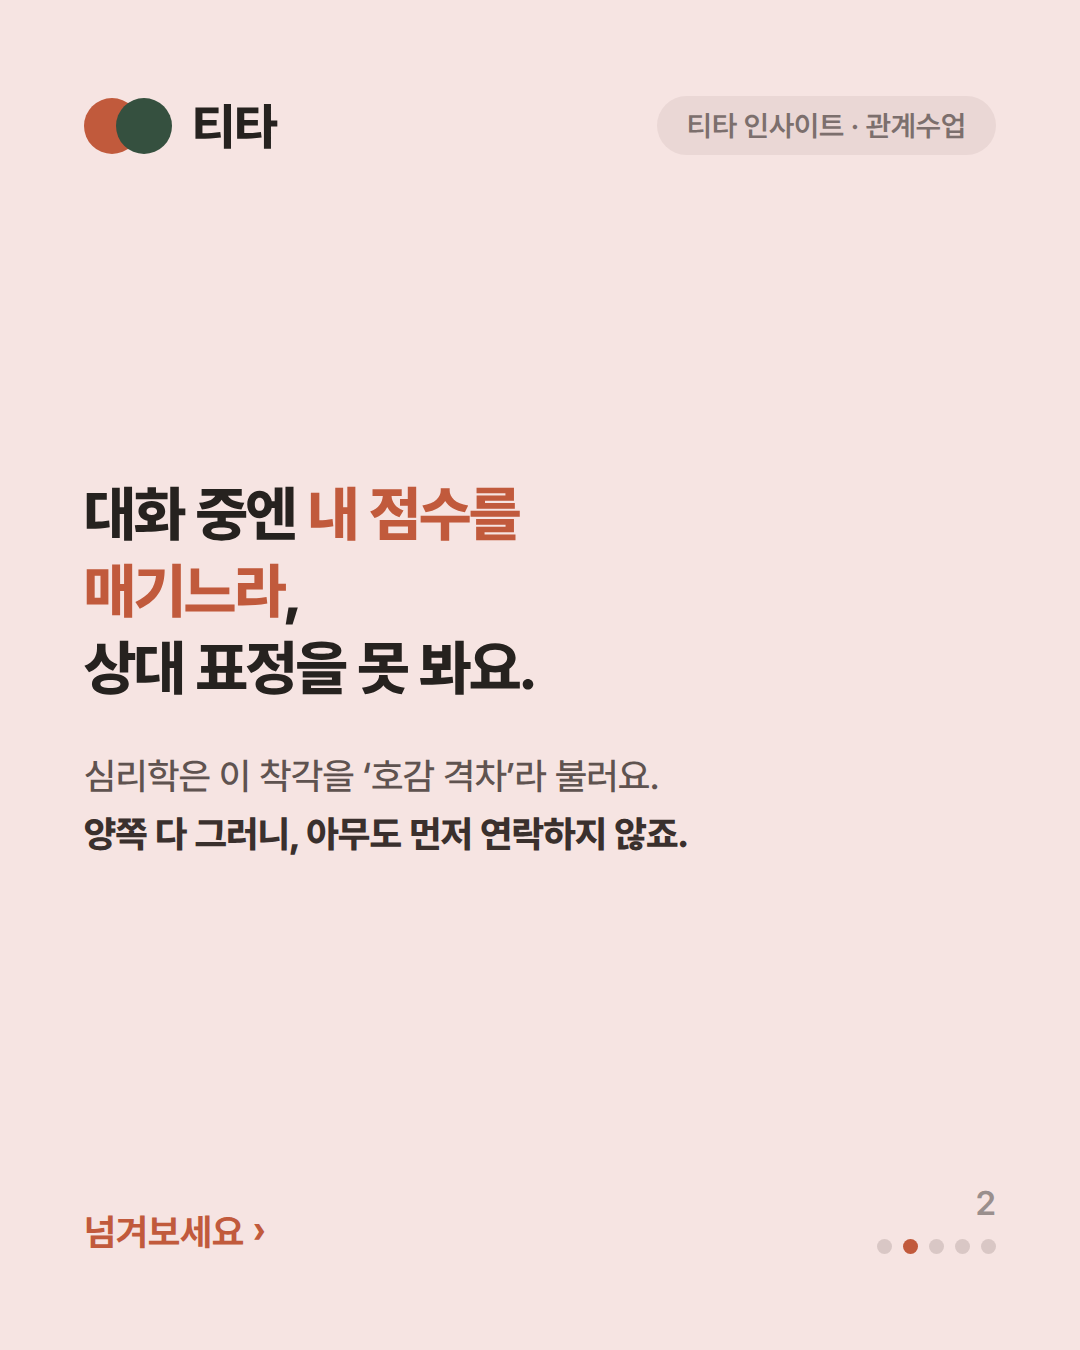
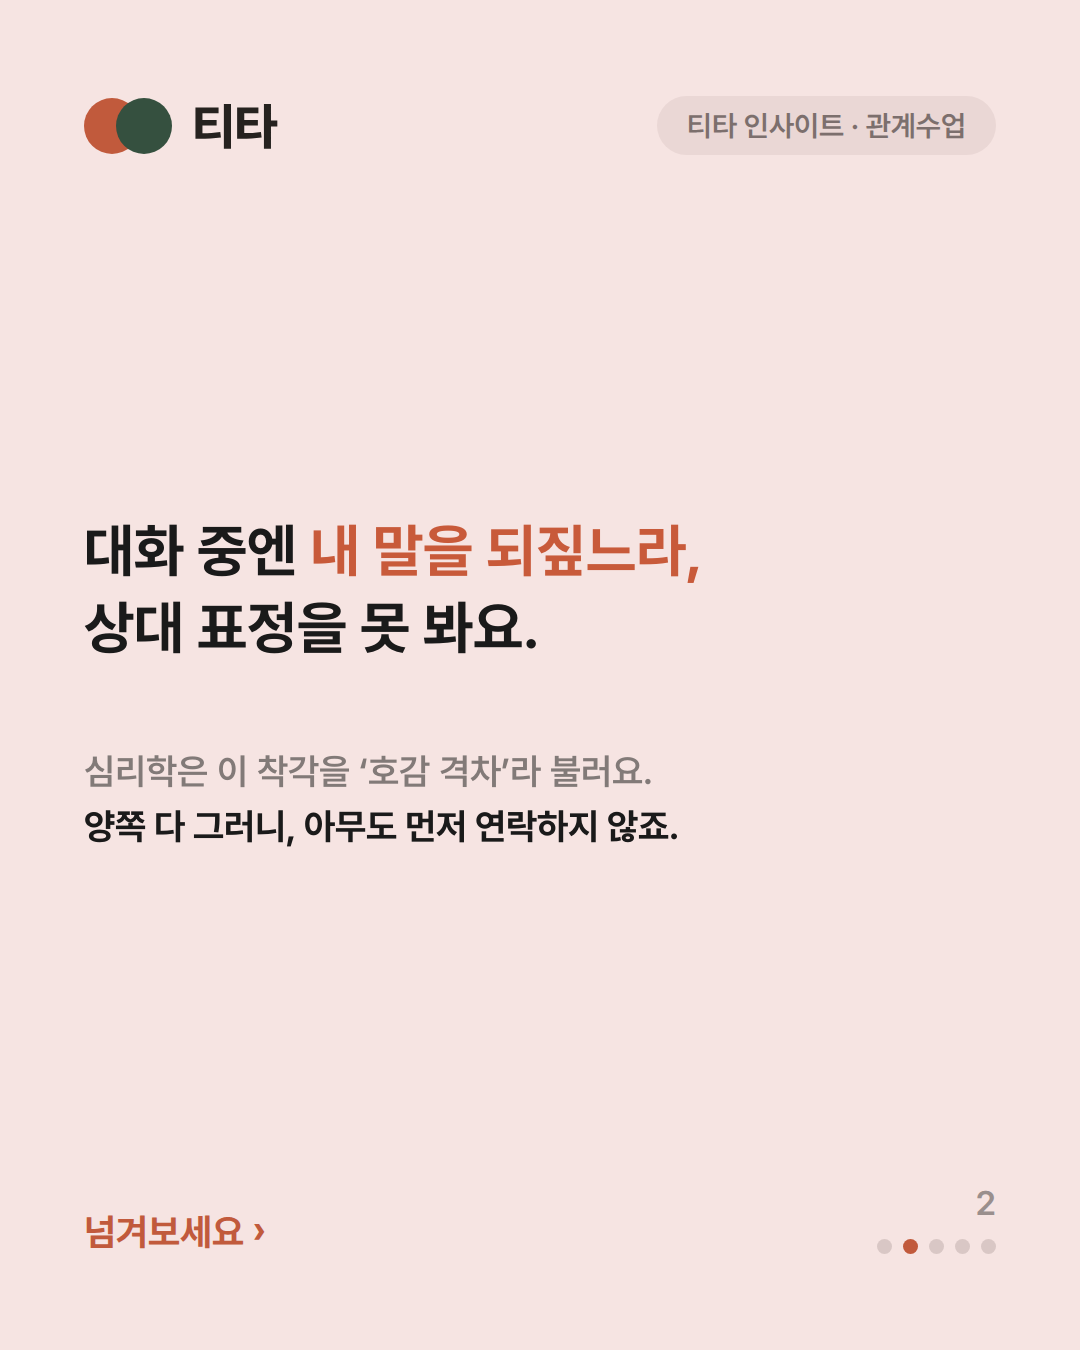
fix(blog): 호감격차 카드·본문 문구 손질 + 보이스피싱 5번째 카드
호감격차 글 — 세 군데를 고쳤다.

'점수를 매기느라' → '되짚느라'. 채점은 기계적인 말이고, 실제로 벌어지는
일은 방금 한 내 말을 되돌려 보는 것이다.

'한 번에 안 이어지는 건 실패가 아니다' → '마음을 나눌 수 있는 친구가
되는 데는 원래 시간이 걸립니다'. 실패를 부정하려면 실패라는 말을 먼저
꺼내야 한다. 부정문을 없애고 홀 교수의 결과를 그대로 말한다. 어떤 친구를
말하는지도 밝힌다. 본문의 '실패가 아니라 정상적인 경과'도 같이 고쳤다.

후속 질문 예시는 원래 셋을 그대로 둔다. 후보를 더 뽑아봤지만 '저도 해볼
수 있을까요?'는 초점을 나에게 되돌리고 '그래서 어떻게 됐어요?'는 캐묻는
쪽이다. 원래 셋은 다 상대가 자기 이야기를 하게 만든다.

카드 2·3은 통째로 다시 그리지 않고 글자 띠만 교체했다(retext_insight_09).
전체를 재현해보니 로고·칩에서 3%가량 픽셀이 어긋나, 한 연작에서 두 장만
바꾸는 데는 이 방식이 맞다. 기하는 원본에서 픽셀로 재서 맞췄다.

보이스피싱 — 5번째 카드를 넣었다. 각본이 반드시 쓰는 "누구에게도 말하지
마라"가 신호라는 카드다. 옆에 물어볼 사람이 한 명만 있어도 각본이 깨진다는
말이 티타가 여럿이 모이는 자리를 기본으로 두는 이유와 바로 이어진다.
마무리 카드는 5번으로 밀고, 본문에도 해당 문단 아래 새 카드를 넣었다.

Changed region(s): [[0.0611, 0.3422, 0.6417, 0.5289], [0.0611, 0.56, 0.6417, 0.6533]]

diff --git a/src/app/blog/posts.ts b/src/app/blog/posts.ts
@@ -504,7 +504,7 @@ export const POSTS: BlogPost[] = [
       },
       {
         type: "image",
-        src: "/blog/voice-phishing/card-4.png",
+        src: "/blog/voice-phishing/card-5.png",
         alt: "어떤 기관도 전화로 돈을 옮기라 하지 않는다 — 그 말이 나오면 끊고 112에 직접 걸라는 티타 안전 수칙 카드",
         caption: "그 말이 나오면, 끊으세요",
       },
@@ -515,6 +515,12 @@ export const POSTS: BlogPost[] = [
       {
         type: "p",
         text: "그리고 하나 더. 혼자 판단하지 않는 게 가장 확실한 방어다. 그들이 반드시 하는 말이 **“누구에게도 말하지 마라”**인 이유가 그것이다. 옆에 물어볼 사람이 한 명만 있어도 이 각본은 대부분 깨진다.",
+      },
+      {
+        type: "image",
+        src: "/blog/voice-phishing/card-4.png",
+        alt: "누구에게도 말하지 마세요라는 말이 나오면 그것이 신호 — 옆에 물어볼 사람이 한 명만 있어도 각본은 깨진다는 티타 안전 수칙 카드",
+        caption: "이 말이 나오면, 오히려 누군가에게 말하세요",
       },
       {
         type: "quote",
@@ -1761,22 +1767,22 @@ export const POSTS: BlogPost[] = [
       {
         type: "image",
         src: "/blog/insight-09/card-2.png",
-        alt: "대화 중엔 내 점수를 매기느라 상대 표정을 못 본다 — 양쪽 다 그러니 아무도 먼저 연락하지 않는다는 티타 인사이트 카드",
+        alt: "대화 중엔 내 말을 되짚느라 상대 표정을 못 본다 — 양쪽 다 그러니 아무도 먼저 연락하지 않는다는 티타 인사이트 카드",
         caption: "양쪽 다 그래서, 아무도 먼저 연락하지 않는다",
       },
       {
         type: "p",
-        text: "이유는 단순합니다. 대화하는 동안 우리 머릿속은 **자기 자신을 채점하느라** 바쁩니다. ‘지금 이 말이 이상했나’, ‘다음엔 무슨 얘기를 하지’. 그 사이 상대가 보내는 호감의 신호 — 웃음, 맞장구, 몸을 기울이는 자세 — 는 그냥 지나갑니다.",
+        text: "이유는 단순합니다. 대화하는 동안 우리 머릿속은 **방금 한 내 말을 되짚느라** 바쁩니다. ‘지금 이 말이 이상했나’, ‘다음엔 무슨 얘기를 하지’. 그 사이 상대가 보내는 호감의 신호 — 웃음, 맞장구, 몸을 기울이는 자세 — 는 그냥 지나갑니다.",
       },
       {
         type: "callout",
         text: "문제는 양쪽 모두 그렇다는 점입니다. 서로 즐거웠는데, 서로 ‘상대는 별로였을 것’이라 믿고, 아무도 먼저 연락하지 않습니다.",
       },
-      { type: "h2", text: "한 번에 안 이어지는 건 실패가 아니다" },
+      { type: "h2", text: "마음을 나눌 수 있는 친구가 되는 데는 원래 시간이 걸립니다" },
       {
         type: "image",
         src: "/blog/insight-09/card-3.png",
-        alt: "한 번에 안 이어지는 건 실패가 아니다 — 친구가 되기까지 50~200시간이 걸리고 어색한 게 아니라 오랜만인 것이라는 티타 인사이트 카드",
+        alt: "마음을 나눌 수 있는 친구가 되는 데는 원래 시간이 걸린다 — 50시간에 가벼운 친구, 200시간에 가까운 친구가 되고 어색한 게 아니라 오랜만인 것이라는 티타 인사이트 카드",
         caption: "어색한 게 아니라, 오랜만인 것",
       },
       {
@@ -1785,7 +1791,7 @@ export const POSTS: BlogPost[] = [
       },
       {
         type: "p",
-        text: "그러니 한 번 만나고 대화가 이어지지 않은 것은 실패가 아니라 **정상적인 경과**입니다. 여기에 한 가지가 더 있습니다. 사회적 접촉의 수는 **25세 무렵을 정점으로 계속 줄어듭니다**(로빈 던바). 직장과 육아로 소수에게 시간을 몰아주는 사이, 새로 사귀는 일 자체가 삶에서 사라집니다. 40대, 50대에 새 사람을 만나 어색한 것은 당연합니다. **능력이 없어진 게 아니라, 오랫동안 쓰지 않았을 뿐입니다.**",
+        text: "그러니 한 번 만나고 대화가 이어지지 않았다면, 그건 **원래 그만큼 걸리는 일**입니다. 여기에 한 가지가 더 있습니다. 사회적 접촉의 수는 **25세 무렵을 정점으로 계속 줄어듭니다**(로빈 던바). 직장과 육아로 소수에게 시간을 몰아주는 사이, 새로 사귀는 일 자체가 삶에서 사라집니다. 40대, 50대에 새 사람을 만나 어색한 것은 당연합니다. **능력이 없어진 게 아니라, 오랫동안 쓰지 않았을 뿐입니다.**",
       },
       { type: "h2", text: "대화를 잇는 건 ‘한 번 더 묻는 것’" },
       {

diff --git a/scripts/retext_insight_09.py b/scripts/retext_insight_09.py
@@ -1,0 +1,103 @@
+#!/usr/bin/env python3
+"""insight-09 카드 2·3번의 글자만 교체한다.
+
+카드를 처음부터 다시 그리지 않는다. 로고·칩·쪽번호·진행점·출처 줄은 원본
+픽셀을 그대로 두고, 글자가 놓인 띠만 배경색으로 지운 뒤 새로 얹는다.
+전체를 다시 그려보니 로고·칩에서 3%가량 픽셀이 어긋났다 — 한 연작에서
+두 장만 바꾸는 일에는 이 방식이 맞다.
+
+기하는 원본 card-2·card-3에서 픽셀로 재서 맞춘 값이다.
+  좌여백 84 · 제목 58(줄간격 77) · 보조 36(줄간격 55) · 배경 (246,228,226)
+제목·보조 모두 한 줄 안에서 색과 굵기를 섞을 수 있다.
+
+⚠ 원본을 덮어쓰므로 두 번 돌리면 안 된다. 다시 돌릴 일이 있으면
+   git에서 원본을 되살린 뒤 실행한다:
+     git checkout HEAD -- public/blog/insight-09/card-2.png card-3.png
+"""
+from PIL import Image, ImageDraw, ImageFont
+
+D = ("/Users/hangyeolryu/Documents/projects/bloomagain-website"
+     "/public/blog/insight-09")
+FD = ("/Users/hangyeolryu/Documents/projects/bloomagain-website"
+      "/src/app/fonts")
+BOLD, SEMI = f"{FD}/Pretendard-Bold.otf", f"{FD}/Pretendard-SemiBold.otf"
+
+BG = (246, 228, 226)
+INK, TERRA, GREY = (26, 26, 26), (200, 90, 58), (130, 122, 120)
+MARGIN = 84
+MAXW = 1080 - MARGIN * 2
+T_SIZE, T_STEP = 58, 77
+S_SIZE, S_STEP = 36, 55
+BAND = (390, 910)  # 글자를 지울 세로 구간 — 칩(≤160)과 출처(≥1150)는 건드리지 않는다
+
+
+def draw_line(d, x, y, segs, size):
+    """(글자, 색, 굵기) 조각들을 왼쪽부터 이어 그린다."""
+    for text, color, bold in segs:
+        f = ImageFont.truetype(BOLD if bold else SEMI, size)
+        d.text((x, y), text, font=f, fill=color)
+        bb = d.textbbox((0, 0), text, font=f)
+        x += bb[2] - bb[0]
+
+
+def line_width(d, segs, size):
+    w = 0
+    for text, _, bold in segs:
+        f = ImageFont.truetype(BOLD if bold else SEMI, size)
+        bb = d.textbbox((0, 0), text, font=f)
+        w += bb[2] - bb[0]
+    return w
+
+
+def retext(path, title, sub, title_top, sub_top):
+    """title_top·sub_top은 글자 윗선(원본에서 잰 값)."""
+    im = Image.open(path).convert("RGB")
+    d = ImageDraw.Draw(im)
+    d.rectangle([0, BAND[0], im.width, BAND[1]], fill=BG)
+
+    for name, block, size, step, top in (
+            ("제목", title, T_SIZE, T_STEP, title_top),
+            ("보조", sub, S_SIZE, S_STEP, sub_top)):
+        for segs in block:
+            w = line_width(d, segs, size)
+            if w > MAXW:
+                raise ValueError(f"{name} 줄이 넘칩니다({w}>{MAXW}): "
+                                 f"{''.join(t for t, _, _ in segs)}")
+        # d.text의 y는 글자 윗선보다 위에 있다. 첫 줄의 top bearing만큼 올린다.
+        f0 = ImageFont.truetype(BOLD if block[0][0][2] else SEMI, size)
+        pad = d.textbbox((0, 0), block[0][0][0], font=f0)[1]
+        y = top - pad
+        for segs in block:
+            draw_line(d, MARGIN, y, segs, size)
+            y += step
+
+    im.save(path, "PNG")
+    print("saved", path)
+
+
+# ── card-2 · '점수를 매기느라' → '내 말을 되짚느라' ──────────────────────────
+# 채점이라는 말이 기계적이었다. 실제로 벌어지는 일은 방금 한 내 말을
+# 되돌려 보는 것이라 '되짚느라'가 정확하다. 한 줄이 줄어 위치를 다시 잡았다.
+retext(
+    f"{D}/card-2.png",
+    [[("대화 중엔 ", INK, True), ("내 말을 되짚느라,", TERRA, True)],
+     [("상대 표정을 못 봐요.", INK, True)]],
+    [[("심리학은 이 착각을 ‘호감 격차’라 불러요.", GREY, False)],
+     [("양쪽 다 그러니, 아무도 먼저 연락하지 않죠.", INK, True)]],
+    title_top=524, sub_top=755,
+)
+
+# ── card-3 · '실패가 아니에요' → '원래 시간이 걸려요' ────────────────────────
+# 실패를 부정하려면 실패라는 말을 먼저 꺼내야 한다. 부정문을 없애고 홀 교수의
+# 결과를 그대로 말한다. '마음을 나눌 수 있는'을 붙여 어떤 친구인지 밝힌다.
+retext(
+    f"{D}/card-3.png",
+    [[("마음을 나눌 수 있는", INK, True)],
+     [("친구가 되는 데는", INK, True)],
+     [("원래 시간이 걸려요", TERRA, True), (".", INK, True)]],
+    [[("50시간에 가벼운 친구, ", GREY, False),
+      ("200시간에 가까운 친구", INK, True), (".", GREY, False)],
+     [("게다가 새로 사귀어본 게 수십 년 만이잖아요.", GREY, False)],
+     [("어색한 게 아니라, ", GREY, False), ("오랜만인 거예요.", INK, True)]],
+    title_top=420, sub_top=729,
+)

diff --git a/scripts/render_safety_card.py b/scripts/render_safety_card.py
@@ -1,0 +1,103 @@
+#!/usr/bin/env python3
+"""티타 안전 수칙 카드 렌더러 (다크 계열).
+
+색·좌표는 실제 발행된 카드(public/blog/voice-phishing/card-1.png)에서 픽셀로
+뽑아 맞춘 값이다. 같은 연작에 나란히 놓아도 한 줄도 어긋나지 않는다.
+
+  배경 세로 그라데이션 (45,42,52) → (24,23,31)
+  카멜 (219,187,142) · 크림 (240,235,227) · 뮤트 (172,163,151)
+  좌여백 86 · 라벨 412 · 제목 498(+95) · 서브 836(+64) · 하단 1232
+
+pill의 숫자는 **글 번호**다(카드 순서가 아니다). 보이스피싱 = 05.
+
+사용:
+    <venv>/bin/python scripts/render_safety_card.py
+"""
+from PIL import Image, ImageDraw, ImageFont
+
+W, H = 1080, 1350
+FD = "/Users/hangyeolryu/Documents/projects/bloomagain-website/src/app/fonts"
+BOLD, SEMI = f"{FD}/Pretendard-Bold.otf", f"{FD}/Pretendard-SemiBold.otf"
+
+TOP, BOT = (45, 42, 52), (24, 23, 31)
+CAMEL, CREAM, MUTED = (219, 187, 142), (240, 235, 227), (172, 163, 151)
+TERRA = (193, 90, 60)
+X = 86
+MAXW = W - X * 2  # 이 폭을 넘는 줄은 렌더 전에 잡는다
+
+
+def f(p, s):
+    return ImageFont.truetype(p, s)
+
+
+def card(num, label, lines, sub, out,
+         cta="넘겨서 보기  →", foot="만 45세 이상 · 친구 매칭"):
+    """lines: [(텍스트, 색)] 리스트. 색은 CAMEL 또는 CREAM."""
+    im = Image.new("RGB", (W, H))
+    d = ImageDraw.Draw(im)
+    for y in range(H):
+        t = y / (H - 1)
+        d.line([(0, y), (W, y)],
+               fill=tuple(round(TOP[i] + (BOT[i] - TOP[i]) * t)
+                          for i in range(3)))
+
+    # 헤더 로고 + 티타
+    d.ellipse([X, 96, X + 60, 156], fill=TERRA)
+    d.ellipse([X + 36, 96, X + 96, 156], fill=CREAM)
+    d.text((X + 110, 100), "티타", font=f(BOLD, 50), fill=CREAM)
+
+    # 우상단 필 — 하트 + '티타 안전 수칙 · NN'
+    pf = f(BOLD, 30)
+    txt = f"♥ 티타 안전 수칙 · {num:02d}"
+    tw = d.textlength(txt, font=pf)
+    d.rounded_rectangle([W - 86 - tw - 52, 104, W - 86, 158], radius=27,
+                        fill=(58, 50, 45))
+    d.text((W - 86 - tw - 26, 114), txt, font=pf, fill=CAMEL)
+
+    # 라벨
+    d.text((X, 412), label, font=f(SEMI, 34), fill=MUTED)
+
+    # 제목 (최대 3줄)
+    tf = f(BOLD, 72)
+    y = 498
+    for text, col in lines:
+        w = d.textlength(text, font=tf)
+        if w > MAXW:
+            raise ValueError(f"제목 줄이 넘칩니다({w:.0f}>{MAXW}): {text}")
+        d.text((X, y), text, font=tf, fill=col)
+        y += 95
+
+    # 서브
+    y = max(y + 40, 836)
+    sf = f(SEMI, 40)
+    for ln in sub.split("\n"):
+        w = d.textlength(ln, font=sf)
+        if w > MAXW:
+            raise ValueError(f"서브 줄이 넘칩니다({w:.0f}>{MAXW}): {ln}")
+        d.text((X, y), ln, font=sf, fill=MUTED)
+        y += 64
+
+    # 하단
+    ff = f(BOLD, 32)
+    d.text((X, 1232), foot, font=ff, fill=MUTED)
+    cw = d.textlength(cta, font=ff)
+    d.text((W - 86 - cw, 1232), cta, font=ff, fill=CREAM)
+
+    im.save(out)
+    print("saved", out)
+
+
+if __name__ == "__main__":
+    OUT = "/Users/hangyeolryu/Documents/projects/bloomagain-website/public/blog/voice-phishing"
+    # 04 — 각본이 반드시 쓰는 말. 03(수법)과 05(기억할 한 가지) 사이에서
+    # '그래서 무엇을 하나'를 맡는다. 티타가 여럿이 모이는 자리를 기본으로
+    # 두는 이유와 바로 이어지는 카드다.
+    card(
+        5,
+        "그들이 반드시 하는 말",
+        [("“누구에게도", CREAM),
+         ("말하지 마세요.”", CREAM),
+         ("이 말이 신호예요.", CAMEL)],
+        "옆에 물어볼 사람이 한 명만 있어도\n이 각본은 대부분 깨집니다.",
+        f"{OUT}/card-4.png",
+    )
